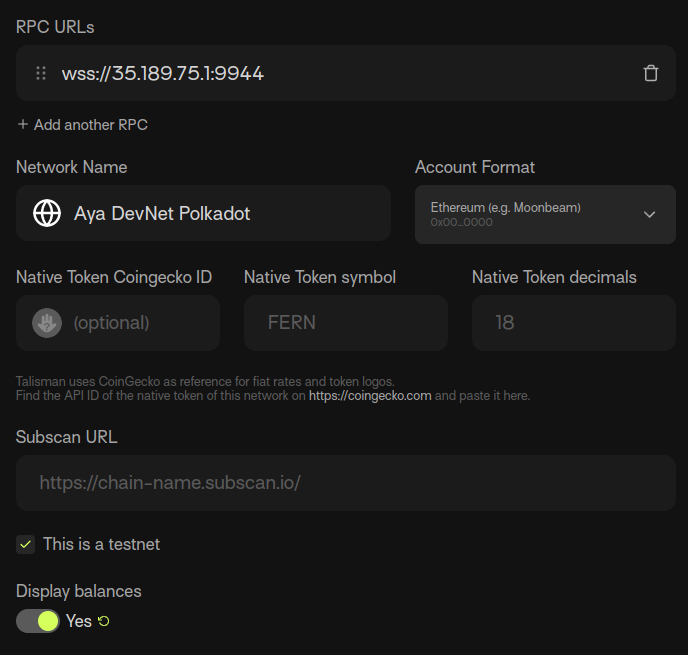
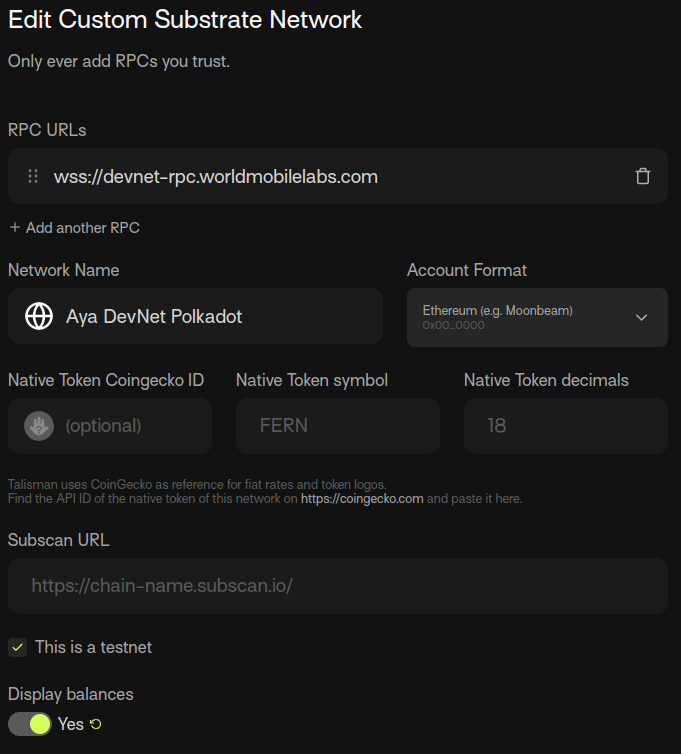
update endpoints

diff --git a/docs/guide_join_devnet.md b/docs/guide_join_devnet.md
@@ -371,19 +371,21 @@ Put the keys aside, you will need them in the next step.
 
 ## Connect to Polkadot-JS Development Front-End
 
-### Connect to Public Remote Note
-You can connect to a Polkadot-JS Front-End using our public remote node, be aware that the node uses a self-signed SSL certificate which you need to accept in order to use it. 
-Accept the risk on this endpoint: [Link](https://35.189.75.1/)
-After accepting you should see `Used HTTP Method is not allowed. POST or OPTIONS is required` on a blank page.
+### Access the Front-End
 
-Now you should be able to connect to the RPC endpoint of the public node: 
-[Front-End](https://polkadot.js.org/apps/?rpc=wss%3A%2F%2F35.189.75.1%3A#/explorer)
+[Front-End](https://polkadot.js.org/apps/?rpc=wss%3A%2F%2Fdevnet-rpc.worldmobilelabs.com%3A#/explorer)
 
 ### Setup Wallet and Restore Validator Account in Talisman
 In the next step we want to add our validator account to a wallet and connect with the development frontend. You can use another account as the one generated before to register the session keys but you need to set the session keys which belong to the validator.
 
 Please follow the instructions in the [Custom Account Guide](https://github.com/worldmobilegroup/aya-node/blob/main/docs/guide_custom_account.md) to install Talisman. 
 Than use the mnemonic generated earlier for your validator to restore the wallet in Talisman (or use another wallet). 
+
+DevNet Public RPC Endpoint: devnet-rpc.worldmobilelabs.com
+
+It is possible to connect via https:// (ethereum rpc endpoints) or websocket wss:// (Substrate/Polkadot rpc endpoints).
+You need to add the network as well as ethereum network as well as polkadot network. 
+Polkadot-js front-end will use the websocket whereas the wallet will use the other. 
 
 Add the following Network to Talisman (Polkadot):
 ![AyA-DevNet RPC Endpoint](assets/talisman_aya_devnet.png)
@@ -392,7 +394,7 @@ Refresh the Polkadot-JS development front-end, then connect the new wallet in Ta
 
 ### Get FERN
 You need to get some FERN tokens from the faucet to pay for transaction fees. 
-
+Go to the [faucet](https://devnet-faucet.worldmobilelabs.com/) and request some. 
 
 
 ## Become a Validator
@@ -403,7 +405,7 @@ If you do not provide ImOnline messages during an epoch you are getting kicked t
 ### Submit Session Keys
 To submit the session keys you obtained in the step before you need a working Polkadot-JS front-end and your account needs to have funds to pay for transaction fees. The wallet registering the session keys does not need to be the one generated for the validator, but the session keys must match! Only you (the operator) should know your session keys when you triggered a rotation and only you should be able to rotate session keys. It is not possible to register the same session keys twice.
 
-Go to the [Front-End](https://polkadot.js.org/apps/?rpc=wss%3A%2F%2F35.189.75.1%3A#/explorer) and navigate to `Developer -> Extrinsics`.
+Go to the [Front-End](https://polkadot.js.org/apps/?rpc=wss%3A%2F%2Fdevnet-rpc.worldmobilelabs.com%3A#/explorer) and navigate to `Developer -> Extrinsics`.
 ![DeveloperExtrinsic](assets/sessionKeys_developerExtrinsic.png)
 
 Select the validator account you imported into Talisman before.
